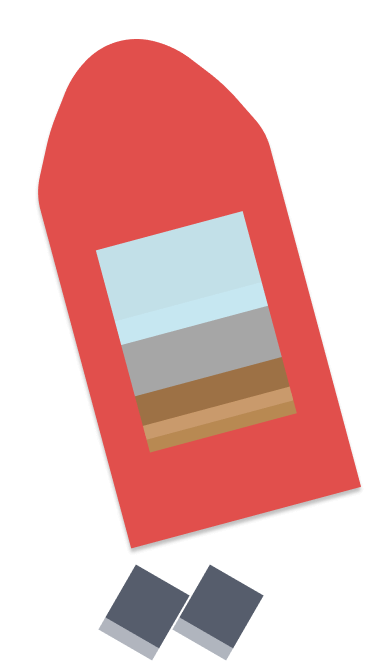
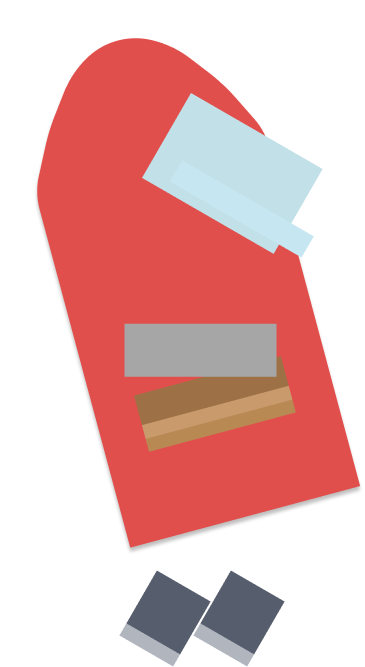
Added Terible Goo will change asset names later

diff --git a/game.py b/game.py
@@ -5,7 +5,7 @@ from constants import *
 from charecters.boat import Boat
 from charecters.trash import Trash
 from charecters.coin_anim import CoinGotAnimation
-from charecters.whirlpool import WhirlPool
+from charecters.enemies import WhirlPool, DeadlyAcidicGoo
 from ocean import Ocean
 
 def run_game(screen):
@@ -17,6 +17,7 @@ def run_game(screen):
     boat = Boat(3, 3)
     clock = pygame.time.Clock()
     trashes_list = [Trash(), Trash(), Trash(), Trash(), Trash(), Trash(), Trash(), Trash(), Trash(), Trash()]
+    goops_list = []
     coin_anim_sprites = []
     coins = 0
     trashes_collected = 0
@@ -31,10 +32,13 @@ def run_game(screen):
     lives = 3
     death_done_wait_time = 0
     death_subtitle = ""
+    died_by_goop = False
     last_time_to_update_whirlpool_pull_power_on_player = pygame.time.get_ticks()
-    wait_time_to_update_whirlpool_pull_power_on_player = 30000
+    wait_time_to_update_whirlpool_pull_power_on_player = 20000
     mouse_clicked = False
     shop_msg = []
+    new_goop_creation_wait_time = random.randint(2, 5) * 1000
+    new_goop_creation_last_time_counted = pygame.time.get_ticks()
 
     border_mask = pygame.mask.from_surface(
         pygame.transform.scale(pygame.image.load("assets/border.png"), (SCREEN_WIDTH + 16, SCREEN_HEIGHT + 30)))
@@ -68,7 +72,6 @@ def run_game(screen):
                     converted_boat_image = pygame.transform.rotate(boat.img, boat.angle).convert_alpha()
                     whirlpool_image = scale_image(whirlpool.image.copy(), 0.25).convert_alpha()
 
-                    boat_mask = pygame.mask.from_surface(converted_boat_image)
                     whirlpool_mask = pygame.mask.from_surface(whirlpool_image)
                     whirlpool_rect = whirlpool_image.get_rect(center=(whirlpool.x, whirlpool.y))
                     boat_rect = converted_boat_image.get_rect(center=(boat.x, boat.y))
@@ -112,6 +115,31 @@ def run_game(screen):
                 last_time_to_update_whirlpool_pull_power_on_player = pygame.time.get_ticks()
                 wait_time_to_update_whirlpool_pull_power_on_player -= 100
                 boat.whirlpool_pull_force_dividend += 0.009
+            
+            for goop in goops_list:
+                game_surface.blit(goop.image, (goop.x - goop.image.get_width() / 2, goop.y - goop.image.get_height() / 2))
+
+                if not boat.died:
+                    if boat.collide(goop.mask, goop.x, goop.y) is not None or died_by_goop:
+                        died_by_goop = True
+                        if death_done_wait_time == 0:
+                            boat.img = broken_boat_image
+                            boat.broken = True
+                            death_done_wait_time = pygame.time.get_ticks()
+                        else:
+                            if pygame.time.get_ticks() - death_done_wait_time >= 800:
+                                lives -= 1
+                                boat.img = None
+                                boat.died = True
+                                boat.death_time = pygame.time.get_ticks()
+                                death_done_wait_time = 0
+                                death_subtitle = "You got Stuck in the acidic goop melting your boat. Be Carefull!"
+                                died_by_goop = False
+
+                if goop.x <= -30 - goop.image.get_width() or goop.x >= (SCREEN_WIDTH*1.1) + 30 + goop.image.get_width():
+                    goops_list.remove(goop)
+                else:
+                    goop.update()
 
             for trash in trashes_list:
                 trash.draw_and_update(game_surface)
@@ -159,8 +187,10 @@ def run_game(screen):
                 if boat.collide(border_mask) is not None:
                     boat.bounce()
 
-                if not (-20 < boat.y < SCREEN_HEIGHT + 10):
+                if not (-15 < boat.y < SCREEN_HEIGHT - 15):
                     if death_done_wait_time == 0:
+                        boat.img = broken_boat_image
+                        boat.broken = True
                         death_done_wait_time = pygame.time.get_ticks()
                     else:
                         if pygame.time.get_ticks() - death_done_wait_time >= 800:
@@ -172,8 +202,9 @@ def run_game(screen):
                             death_subtitle = "The whirlpool flung you off to the side and we lost connection to the " \
                                             "boat, be careful!!"
 
-                elif boat.y > (SCREEN_HEIGHT - 10) or boat.y < -20:
+                elif boat.y > (SCREEN_HEIGHT - (boat.img.get_height()/3) * 2) or boat.y < (boat.img.get_height()/3) * -2:
                     if death_done_wait_time == 0:
+                        boat.img = broken_boat_image
                         death_done_wait_time = pygame.time.get_ticks()
                     else:
                         if pygame.time.get_ticks() - death_done_wait_time >= 800:
@@ -193,9 +224,14 @@ def run_game(screen):
                     coin_anim_sprites.remove(coin)
 
             if pygame.time.get_ticks() - last_time_taken_to_create_whirlpool > max(5000,
-                                                                                whirl_pool_spawn_time) and trashes_collected > 25 and whirlpool is None and not boat.died:
+                                                                                whirl_pool_spawn_time) and trashes_collected > 10 and whirlpool is None and not boat.died:
                 whirlpool = WhirlPool()
                 last_time_taken_to_create_whirlpool = pygame.time.get_ticks()
+            
+            if pygame.time.get_ticks() - new_goop_creation_last_time_counted > new_goop_creation_wait_time and trashes_collected > 20:
+                goops_list.append(DeadlyAcidicGoo())
+                new_goop_creation_last_time_counted = pygame.time.get_ticks()
+                new_goop_creation_wait_time = random.randint(2, 5) * 1000
 
             if lives == 0:
                 running = False
@@ -227,6 +263,7 @@ def run_game(screen):
 
             if time_left >= 2300 and whirlpool is None:
                 boat.reset()
+                death_by_whirlpool = False
                 boat.img = scale_image(boat_image, boat.scale_amount)
                 boat.died = False
                 last_time_taken_to_create_whirlpool = pygame.time.get_ticks()

diff --git a/screens.py b/screens.py
@@ -61,25 +61,8 @@ def main_menu_screen(screen):
 			continue_button_text = death_screen_button_font.render("PLAY!", "", (255, 255, 255))
 			screen.blit(continue_button_text, ((continue_btn_x + 200) - (continue_button_text.get_width()/2), (continue_btn_y + 25) - (continue_button_text.get_height()/2)))
 
-		# Instructions Button
-		instructions_btn_x, instructions_btn_y = (115, ((SCREEN_HEIGHT*1.1)/5) * 2.5)
-		instructions_button = pygame.Rect(instructions_btn_x, instructions_btn_y, 400, 50)
-		if instructions_button.collidepoint((mx, my)):
-			pygame.draw.rect(screen, (255, 255, 255), (instructions_btn_x - 2.5, instructions_btn_y - 2.5, 405, 55))
-			if mouse_pressed:
-				run_game = "howtoplay"
-				exited = True
-		pygame.draw.rect(screen, (0, 18, 35), instructions_button)
-
-		if instructions_button.collidepoint((mx, my)):
-			instructions_button_text = death_screen_button_on_hover_font.render("HOW TO PLAY!", "", (255, 255, 255))
-			screen.blit(instructions_button_text, ((instructions_btn_x + 200) - (instructions_button_text.get_width()/2), (instructions_btn_y + 25) - (instructions_button_text.get_height()/2)))
-		else:
-			instructions_button_text = death_screen_button_font.render("HOW TO PLAY!", "", (255, 255, 255))
-			screen.blit(instructions_button_text, ((instructions_btn_x + 200) - (instructions_button_text.get_width()/2), (instructions_btn_y + 25) - (instructions_button_text.get_height()/2)))
-
 		# Exit Button
-		exit_btn_x, exit_btn_y = (115, ((SCREEN_HEIGHT*1.1)/5) * 2.8)
+		exit_btn_x, exit_btn_y = (115, continue_btn_y + 50 + 10)
 		exit_button = pygame.Rect(exit_btn_x, exit_btn_y, 400, 50)
 		if exit_button.collidepoint((mx, my)):
 			pygame.draw.rect(screen, (255, 255, 255), (exit_btn_x - 2.5, exit_btn_y - 2.5, 405, 55))
@@ -106,7 +89,7 @@ def death_screen(screen, trashes_collected):
 	should_grow = True
 	mouse_pressed = False
 	while not exited:
-		screen.fill((240, 79, 76))
+		screen.fill((250, 79, 76))
 
 		for event in pygame.event.get():
 			if event.type == pygame.QUIT:
@@ -137,9 +120,9 @@ def death_screen(screen, trashes_collected):
 		screen.blit(broken_boat, (boat_cx - broken_boat.get_width()/2, boat_cy - broken_boat.get_height()/2))
 
 		you_died_text = death_screen_title_font.render("Game Over!", "", (255, 255, 255))
-		screen.blit(you_died_text, (100, ((SCREEN_HEIGHT*1.1)/5) * 1.5))
+		screen.blit(you_died_text, (100, ((SCREEN_HEIGHT*1.1)/5) * 1.37))
 		you_died_subtitle_text = death_screen_subtitle_font.render(f"You collected {trashes_collected} trashes!", "", (255, 255, 255))
-		screen.blit(you_died_subtitle_text, (120, ((SCREEN_HEIGHT*1.1)/5) * 1.5 + you_died_text.get_height() - 20))
+		screen.blit(you_died_subtitle_text, (120, ((SCREEN_HEIGHT*1.1)/5) * 1.4 + you_died_text.get_height() - you_died_subtitle_text.get_height()))
 
 		mx, my = pygame.mouse.get_pos()
 
@@ -163,7 +146,7 @@ def death_screen(screen, trashes_collected):
 			screen.blit(replay_button_text, ((replay_btn_x + 200) - (replay_button_text.get_width()/2), (replay_btn_y + 25) - (replay_button_text.get_height()/2)))
 
 		# Main Menu Button
-		main_menu_btn_x, main_menu_btn_y = (115, ((SCREEN_HEIGHT*1.1)/5) * 2.5)
+		main_menu_btn_x, main_menu_btn_y = (115, replay_btn_y + 50 + 10)
 		main_menu_button = pygame.Rect(main_menu_btn_x, main_menu_btn_y, 400, 50)
 		if main_menu_button.collidepoint((mx, my)):
 			pygame.draw.rect(screen, (255, 255, 255), (main_menu_btn_x - 2.5, main_menu_btn_y - 2.5, 405, 55))
@@ -179,7 +162,7 @@ def death_screen(screen, trashes_collected):
 			screen.blit(main_menu_button_text, ((main_menu_btn_x + 200) - (main_menu_button_text.get_width()/2), (main_menu_btn_y + 25) - (main_menu_button_text.get_height()/2)))
 
 		# Exit Button
-		exit_btn_x, exit_btn_y = (115, ((SCREEN_HEIGHT*1.1)/5) * 2.8)
+		exit_btn_x, exit_btn_y = (115, main_menu_btn_y + 50 + 10)
 		exit_button = pygame.Rect(exit_btn_x, exit_btn_y, 400, 50)
 		if exit_button.collidepoint((mx, my)):
 			pygame.draw.rect(screen, (255, 255, 255), (exit_btn_x - 2.5, exit_btn_y - 2.5, 405, 55))
@@ -195,8 +178,8 @@ def death_screen(screen, trashes_collected):
 			exit_button_text = death_screen_button_font.render("EXIT!", "", (255, 255, 255))
 			screen.blit(exit_button_text, ((exit_btn_x + 200) - (exit_button_text.get_width()/2), (exit_btn_y + 25) - (exit_button_text.get_height()/2)))
 		
-		msg = "This is a game By Tejas. And this is his first ever game created with python and pygame for the SeaJam game jam which also happens to be my very first game jam so I really hope this game was good and thank you for playing it."
-		draw_text(screen, msg, (255, 255, 255), (105, ((SCREEN_HEIGHT*1.1)/5) * 3.05, 500, 500), death_screen_info_font)
+		msg = "This is a game By the KCT. And this is his first ever game created with python and pygame for the SeaJam game jam which also happens to be my very first game jam so I really hope this game was good and thank you for playing it."
+		draw_text_multilined(screen, msg, (255, 255, 255), (105, exit_btn_y + 50 + 10, 500, 500), death_screen_info_font)
 		
 		pygame.display.update()
 	

diff --git a/charecters/boat.py b/charecters/boat.py
@@ -21,23 +21,31 @@ class Boat:
         self.max_vel = max_vel
         self.rotation_vel = rotation_vel
         self.x, self.y = ((SCREEN_WIDTH / 2) - (self.img.get_width() / 2), (SCREEN_HEIGHT / 2) - (self.img.get_height() / 2))
+        self.broken = False
 
     def rotate(self, left=False, right=False):
-        if left:
-            self.angle += self.rotation_vel
-        elif right:
-            self.angle -= self.rotation_vel
+        if not self.broken:
+            if left:
+                self.angle += self.rotation_vel
+            elif right:
+                self.angle -= self.rotation_vel
 
     def draw(self, win):
         blit_and_rotate_center(win, self.img, (self.x, self.y), self.angle)
 
     def move_forward(self):
-        self.vel = min(self.vel + self.acceleration, self.max_vel)
-        self.move()
+        if not self.broken:
+            self.vel = min(self.vel + self.acceleration, self.max_vel)
+            self.move()
+        else:
+            self.reduce_speed()
 
     def move_backward(self):
-        self.vel = max(self.vel - self.acceleration, -self.max_vel / 2)
-        self.move()
+        if not self.broken:
+            self.vel = max(self.vel - self.acceleration, -self.max_vel / 2)
+            self.move()
+        else:
+            self.reduce_speed()
 
     def move(self):
         radians = math.radians(self.angle)
@@ -48,24 +56,28 @@ class Boat:
         self.x -= horizontal
 
     def collide(self, mask, x=0, y=0):
-        boat_mask = pygame.mask.from_surface(self.img)
-        offset = (int(self.x - x), int(self.y - y))
-        poi = mask.overlap(boat_mask, offset)
-        return poi
+        if not self.broken:
+            boat_mask = pygame.mask.from_surface(self.img)
+            offset = (int(self.x - x), int(self.y - y))
+            poi = mask.overlap(boat_mask, offset)
+            return poi
+        return None
 
     def reset(self):
         self.img = scale_image(boat_image, self.scale_amount)
         self.x, self.y = ((SCREEN_WIDTH / 2) - (self.img.get_width() / 2), (SCREEN_HEIGHT / 2) - (self.img.get_height() / 2))
         self.angle = 0
         self.vel = 0
+        self.broken = False
 
     def reduce_speed(self):
         self.vel = max(self.vel - self.acceleration, 0)
         self.move()
 
     def bounce(self):
-        self.vel = -self.vel
-        self.move()
+        if not self.broken:
+            self.vel = -self.vel
+            self.move()
 
     def draw_particles(self, screen):
         for particle in self.particles:
@@ -76,18 +88,20 @@ class Boat:
                 self.particles.remove(particle)
 
     def update_particles(self, boat_dead):
-        if self.vel > 0.5 and not boat_dead:
-            self.particles.append(
-                [[self.x + (self.img.get_width() / 2), self.y + (self.img.get_height() / 2)],
-                 [random.randint(0, 20) / 10 - 1, -2],
-                 random.randint(int(self.vel) * 3, int(self.vel + 2) * 3) * 0.9])
+        if not self.broken:
+            if self.vel > 0.5 and not boat_dead:
+                self.particles.append(
+                    [[self.x + (self.img.get_width() / 2), self.y + (self.img.get_height() / 2)],
+                    [random.randint(0, 20) / 10 - 1, -2],
+                    random.randint(int(self.vel) * 3, int(self.vel + 2) * 3) * 0.9])
 
     def move_to_whirlpool(self, whirlpool_cx, whirlpool_cy):
-        force_x = float(whirlpool_cx - self.x) / 5
-        force_y = float(whirlpool_cy - self.y) / 5
+        if not self.broken:
+            force_x = float(whirlpool_cx - self.x) / 5
+            force_y = float(whirlpool_cy - self.y) / 5
 
-        self.x += (force_x) * self.whirlpool_pull_force_dividend
-        self.y += (force_y) * self.whirlpool_pull_force_dividend
+            self.x += (force_x) * self.whirlpool_pull_force_dividend
+            self.y += (force_y) * self.whirlpool_pull_force_dividend
     
     def speed_level(self):
         return 1 if (self.max_vel == 3.0) else 2 if (self.max_vel == 3.5) else 3 if (self.max_vel == 4.0) else 4 if (self.max_vel == 4.5) else 5

diff --git a/constants.py b/constants.py
@@ -74,3 +74,28 @@ lives_left_image = [
 lives_background_image = scale_image(pygame.image.load("assets/lives bg.png"), 0.4)
 
 # sara = scale_image(pygame.image.load("assets/sara.png"), 2.5)
+
+goo_image_list = [
+    scale_image(pygame.image.load("assets/gas/Gas.png"), 0.17),
+    scale_image(pygame.image.load("assets/gas/Gas-1.png"), 0.17),
+    scale_image(pygame.image.load("assets/gas/Gas-2.png"), 0.17),
+    scale_image(pygame.image.load("assets/gas/Gas-3.png"), 0.17),
+    scale_image(pygame.image.load("assets/gas/Gas-4.png"), 0.17),
+    scale_image(pygame.image.load("assets/gas/Gas-5.png"), 0.17),
+    scale_image(pygame.image.load("assets/gas/Gas-6.png"), 0.17),
+    scale_image(pygame.image.load("assets/gas/Gas-7.png"), 0.17),
+    scale_image(pygame.image.load("assets/gas/Gas-8.png"), 0.17),
+    scale_image(pygame.image.load("assets/gas/Gas-9.png"), 0.17),
+    scale_image(pygame.image.load("assets/gas/Gas-10.png"), 0.17),
+    scale_image(pygame.image.load("assets/gas/Gas-11.png"), 0.17),
+    scale_image(pygame.image.load("assets/gas/Gas-12.png"), 0.17),
+    scale_image(pygame.image.load("assets/gas/Gas-13.png"), 0.17),
+    scale_image(pygame.image.load("assets/gas/Gas-14.png"), 0.17),
+    scale_image(pygame.image.load("assets/gas/Gas-15.png"), 0.17),
+    scale_image(pygame.image.load("assets/gas/Gas-16.png"), 0.17),
+    scale_image(pygame.image.load("assets/gas/Gas-17.png"), 0.17),
+    scale_image(pygame.image.load("assets/gas/Gas-18.png"), 0.17),
+    scale_image(pygame.image.load("assets/gas/Gas-19.png"), 0.17),
+    scale_image(pygame.image.load("assets/gas/Gas-20.png"), 0.17),
+    scale_image(pygame.image.load("assets/gas/Gas-21.png"), 0.17)
+]

diff --git a/charecters/enemies.py b/charecters/enemies.py
@@ -5,7 +5,6 @@ import pygame.draw
 
 from constants import *
 
-
 class WhirlPool:
     def __init__(self):
         self.image = scale_image(whirl_pool_image, random.uniform(1.0, 1.6))
@@ -38,3 +37,15 @@ class WhirlPool:
         self.y += self.y_distance / self.velocity
         self.angle += 5
         self.mask = pygame.mask.from_surface(self.image)
+
+class DeadlyAcidicGoo:
+    def __init__(self):
+        self.image = scale_image(random.choice(goo_image_list), random.uniform(1.0, 1.5))
+        self.x = random.choice([-10 - self.image.get_width(), (SCREEN_WIDTH*1.1) + 10 + self.image.get_width()])
+        self.y = random.randint(50, int(SCREEN_HEIGHT) - 50)
+        self.mask = pygame.mask.from_surface(scale_image(self.image, 0.4))
+        self.velocity = random.uniform(-2, -6) if self.x > 0 else random.uniform(2, 6)
+
+    def update(self):
+        self.x += self.velocity
+        self.mask = pygame.mask.from_surface(scale_image(self.image, 0.4))

diff --git a/utils.py b/utils.py
@@ -15,7 +15,7 @@ def blit_text_center(win, font, text):
     win.blit(render, (win.get_width() / 2 - render.get_width() /
                       2, win.get_height() / 2 - render.get_height() / 2))
 
-def draw_text(surface, text, color, rect, font, aa=False, bkg=None):
+def draw_text_multilined(surface, text, color, rect, font, aa=False, bkg=None):
     rect = pygame.Rect(rect)
     y = rect.top
     line_spacing = 3

diff --git a/main.py b/main.py
@@ -1,9 +1,5 @@
 import sys
 import pygame
-import tkinter as tk
-from tkinter import ttk
-
-from pygame.transform import scale
 
 pygame.init()
 
